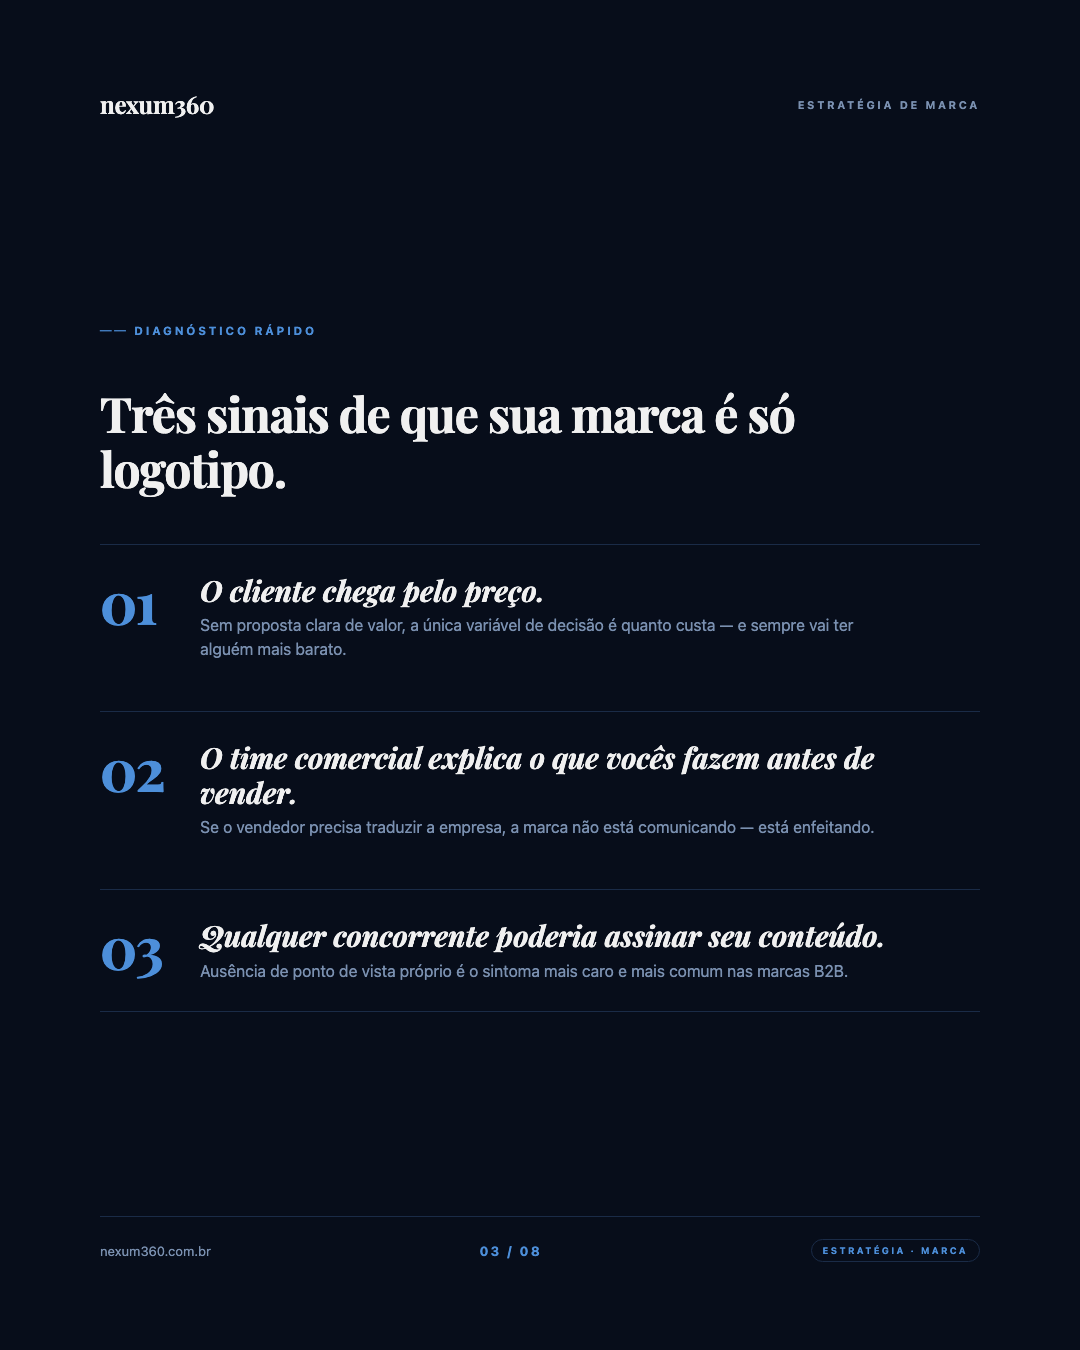
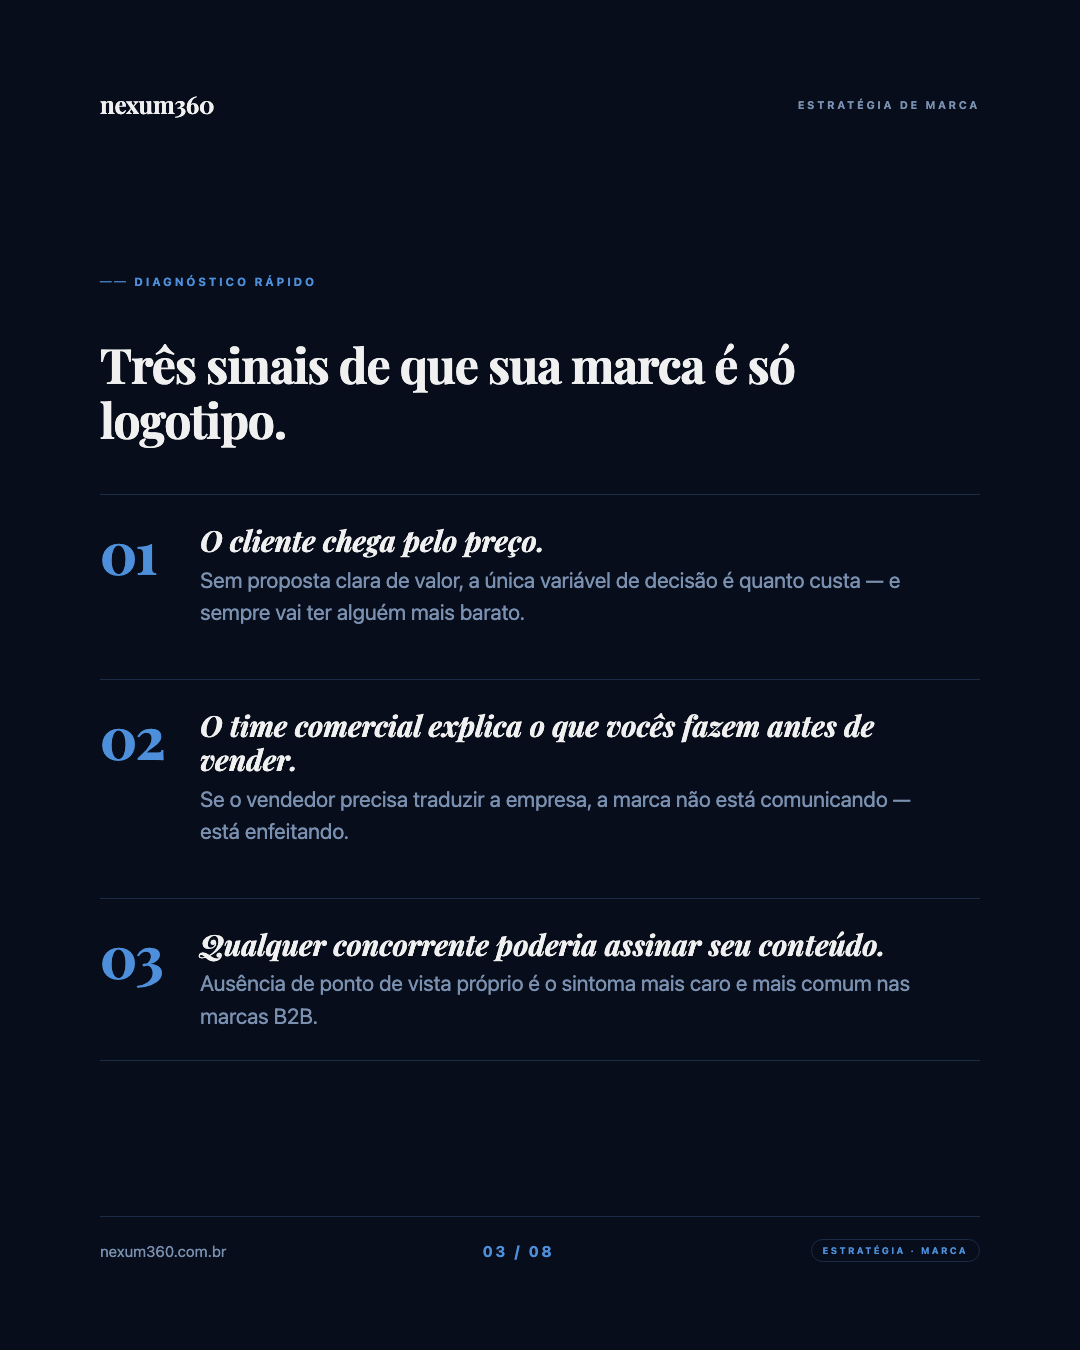
fix: enforce minimum text sizes in art generation system prompt
Adds "TAMANHOS MÍNIMOS DE TEXTO (OBRIGATÓRIO)" section to the
SYSTEM_PROMPT in api/generate-art.js and mirrors the rule in the
/gerar-post skill, so future carrosséis don't ship with text that
becomes illegible when the 1080×1350 card is scaled down in feed.

Also re-renders post8 PNGs with the updated font sizes and ships
brand-profile.json at the repo root so the DNA is versioned.

diff --git a/api/generate-art.js b/api/generate-art.js
@@ -59,12 +59,23 @@ CONTEÚDO: flex-direction column, justify-content center, gap variável
 7. deco-number: número gigante (300-420px) em background com opacity 0.04, Playfair, cor accent, posição absolute
 8. bullet-list: lista sem marcador, cada item com "→" prefix, font-size 1.5rem, cor text, gap 16px
 
+━━━ TAMANHOS MÍNIMOS DE TEXTO (OBRIGATÓRIO — o card é 1080×1350 e será visualizado reduzido no feed) ━━━
+
+NUNCA use tamanhos menores que os limites abaixo, mesmo que o layout "peça" algo menor:
+- Descrições, corpo de texto de apoio, legendas explicativas: ≥ 1.3rem
+- Subtítulos, citações curtas, itens de lista: ≥ 1.5rem
+- Labels de seção em uppercase (source-tag, pilar-label, insight-label, counter): ≥ 0.72rem (letra-espaçada)
+- Footer / assinatura / URL: ≥ 0.85rem
+- Tags pill: ≥ 0.62rem
+
+Se você se vir escrevendo font-size menor que 1rem para texto em lower-case (que não seja uppercase-label), PARE — aumente. Texto pequeno demais fica ilegível no Instagram.
+
 ━━━ REGRAS ━━━
 - Retorne APENAS o HTML completo, sem markdown, sem explicações
 - Inclua sempre as Google Fonts no <head>
 - Use apenas CSS inline ou <style> — sem dependências externas além das fontes
 - O card deve ter overflow: hidden
-- Adicione media queries para escalar o card em telas menores (scale 0.65 em max-width 1200px, scale 0.38 em max-width 860px)
+- NÃO adicione media queries com zoom/scale no body — o card é sempre 1080×1350 e será renderizado em PNG nesse tamanho.
 - Seja criativo com o layout mas mantenha o design premium e minimalista
 - Não use emojis no design
 - Adapte os elementos ao conteúdo — não force todos os elementos em todo post`;

diff --git a/.claude/skills/gerar-post/SKILL.md b/.claude/skills/gerar-post/SKILL.md
@@ -97,6 +97,8 @@ Para **cada slide** (ou apenas o slide pedido em `slide=N`):
 - **VARIE layouts entre slides** — capa pode ser diferente de slide do meio que é diferente do CTA final. Use `deco-number`, `insight-box`, `stat-numbers`, `bullet-list` quando couber.
 - **NÃO chame API externa** — tudo acontece na sua resposta.
 - **NÃO reescreva prompts inline**. Sempre releia os arquivos `api/*.js` antes de gerar, para refletir a versão atual.
+- **TAMANHOS MÍNIMOS (crítico — falha recorrente):** respeite a seção "TAMANHOS MÍNIMOS DE TEXTO" do `SYSTEM_PROMPT` em `api/generate-art.js`. O card é 1080×1350 exibido reduzido no feed — texto abaixo de 1rem para lower-case fica ilegível. Se achar que precisa "apertar" o layout com texto pequeno, corte conteúdo em vez de encolher fonte.
+- **NÃO coloque `@media zoom`** no CSS — o card é renderizado em PNG no tamanho nativo.
 - Se o usuário pedir para iterar/regenerar um slide específico, aceite `slide=N` e regere só aquele.
 - Mantenha as respostas curtas no chat — o conteúdo rico vai para os arquivos.
 
